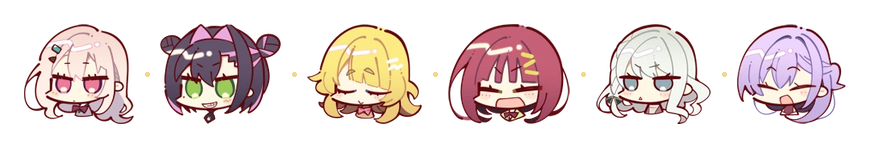
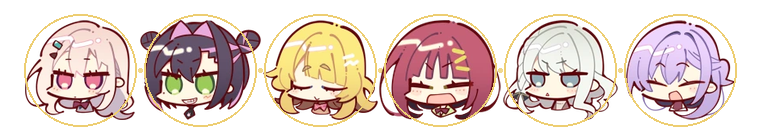
docs: leaner README (2 dividers, 6 screenshots); fix divider spacing with equal cells

diff --git a/README.md b/README.md
@@ -16,27 +16,23 @@
 
 ## 分割线素材
 
-两套，各自风格统一：
+两套成品，尺寸已对齐（等宽格子、底边对齐）：
 
 | 文件 | 样式 | 尺寸 |
 |---|---|---|
-| `docs/divider.png` | 六人 SD 头像 + 金色圆环 | 870×148 |
-| `docs/divider-cards.png` | 六张 LIVE FOR YOU 相纸卡 | 1201×166 |
+| `docs/divider.png` | 六人 SD 头像 + 金色圆环 | 760×140 |
+| `docs/divider-cards.png` | 六张 LIVE FOR YOU 相纸卡 | 1180×158 |
 
-![头像环](docs/divider.png)
-
-![相纸卡](docs/divider-cards.png)
-
-界面用法：每轮任务结束时，**在完成卡下方**（卡外）显示一条头像环分割线。
+界面里的用法：每轮任务结束时，完成卡下方显示一条头像环分割线。
 
 
 ## 截图
 
 **昼**
 
-![昼 · 对话页](docs/chat-day.png)
-
 ![昼 · 空状态](docs/empty-day.png)
+
+![昼 · 对话页](docs/chat-day.png)
 
 **夜**
 
@@ -44,9 +40,14 @@
 
 ![夜 · 对话页](docs/chat-night.png)
 
-右下角的圆形按钮用于**手动切换昼 / 夜**（默认跟随系统，点击后记住选择）。
+**细节**
 
-![divider](docs/divider.png)
+![消息头与完成卡](docs/detail-card.png)
+
+![消息头](docs/detail-head.png)
+
+右下角圆形按钮用于**手动切换昼 / 夜**（默认跟随系统，点击后记住选择）。
+
 
 ## 特性
 
